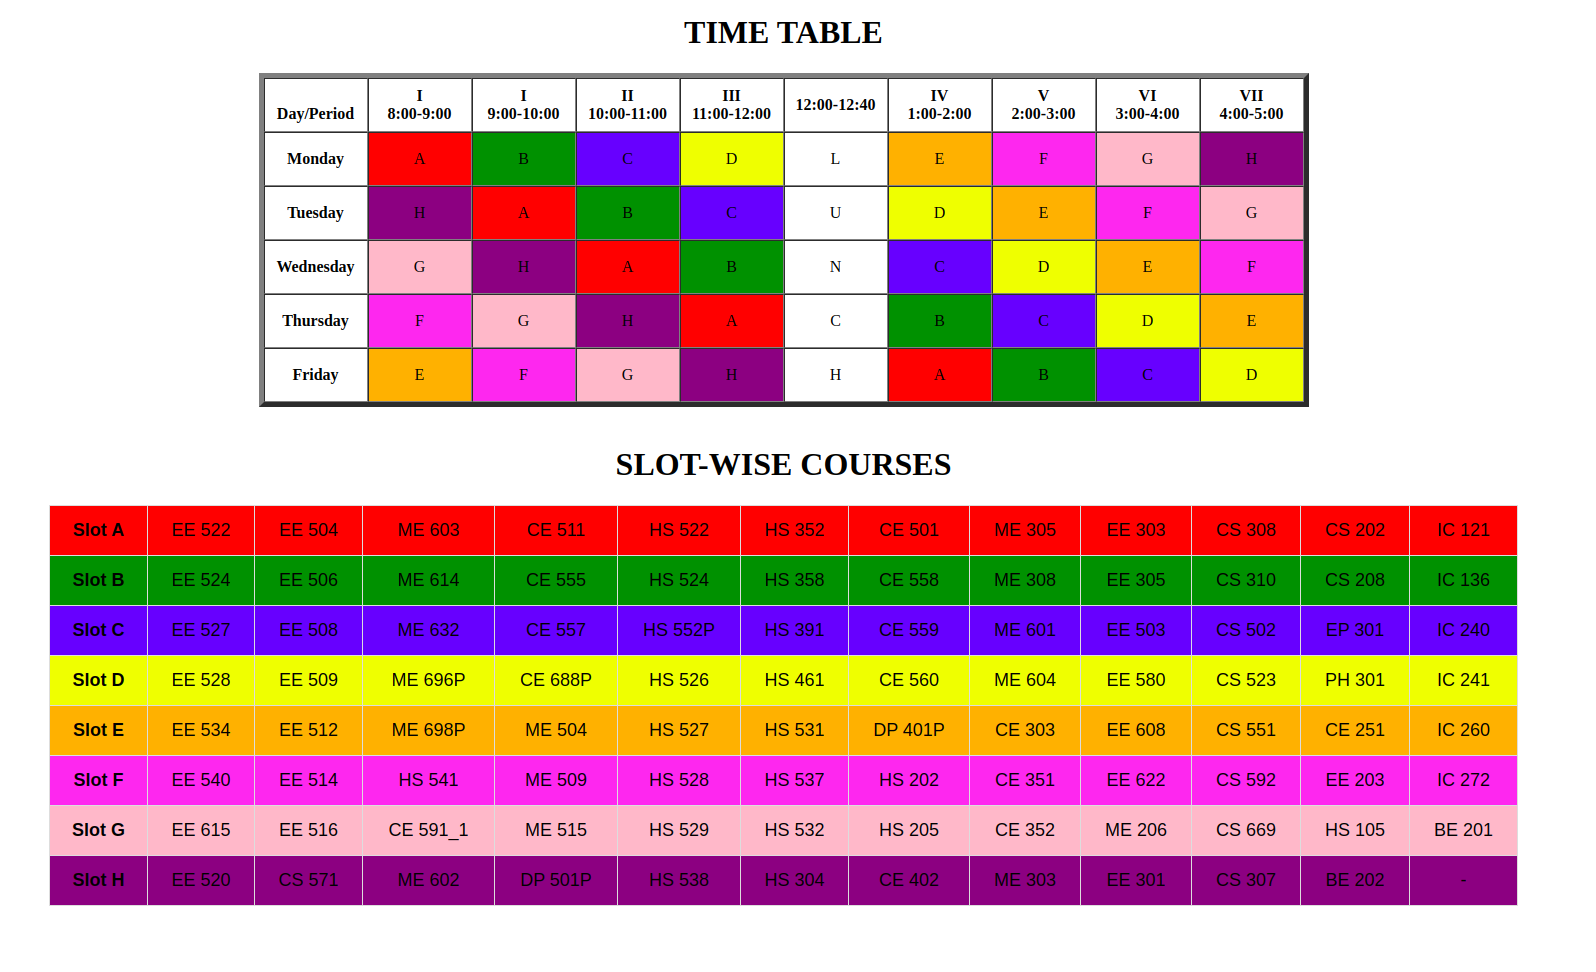
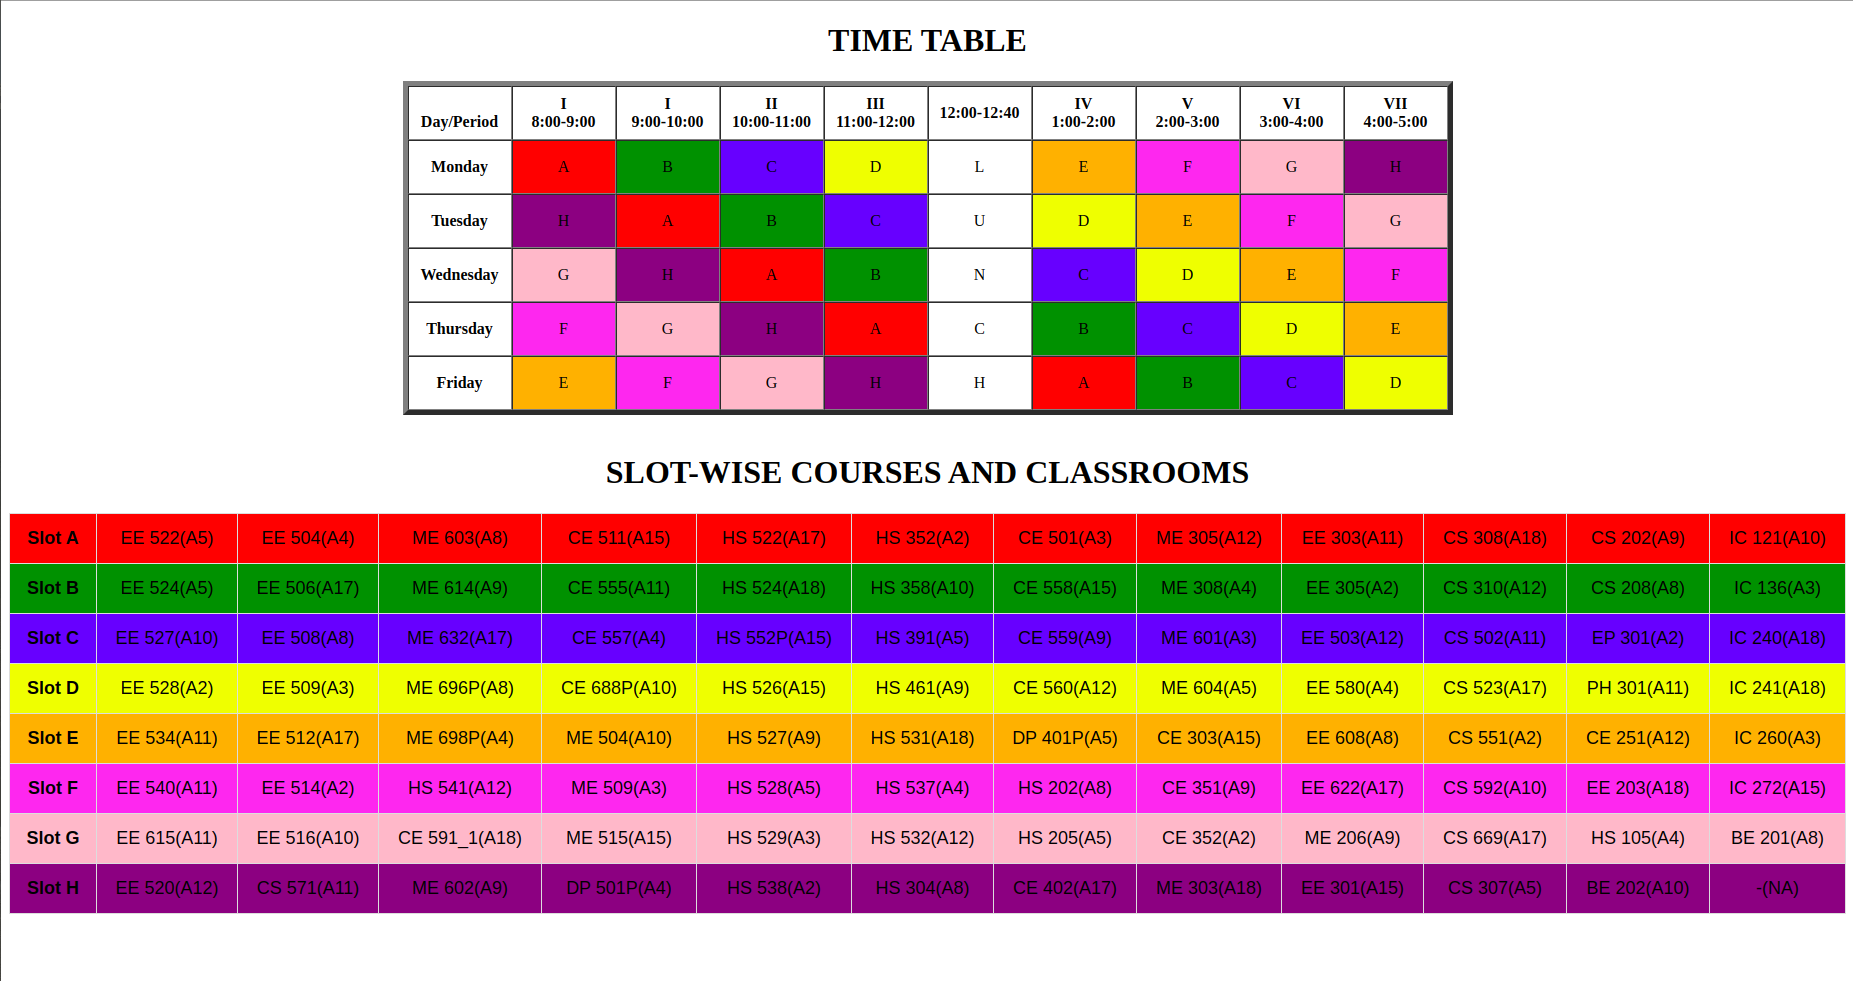
Updated func.py

Changed region(s): [[0.0, 0.463, 1.0, 0.9568], [0.1535, 0.0, 0.8289, 0.4321]]

diff --git a/slot_decider/templates/time-table.html b/slot_decider/templates/time-table.html
@@ -6,7 +6,7 @@
         #slots {
             font-family: Arial, Helvetica, sans-serif;
             border-collapse: collapse;
-            width: 80%;
+            width: 100%;
             font-size: large;
         }
 
@@ -86,14 +86,14 @@
         {% endfor %}
     </table>
     </br>
-    <h1 style="text-align: center;">SLOT-WISE COURSES</h1>
+    <h1 style="text-align: center;">SLOT-WISE COURSES AND CLASSROOMS</h1>
     <table id="slots" style="text-align: center;" class="center">
         {% for key, value in course_table.items %}
         <tr>
             <td bgcolor={{value.1}}><b>{{key}}</b></td>
             {% for x in value.0 %}
             <td bgcolor={{value.1}}>
-                {{x}}
+                {{x.0}}({{x.1}})
             </td>
             {% endfor %}
         </tr>

diff --git a/slot_decider/views.py b/slot_decider/views.py
@@ -16,14 +16,15 @@ def file_upload(request):
             file_list = []
             for x in files:
                 rd = x.read()
-                s=str(rd,'utf-8')
+                s = str(rd, 'utf-8')
                 data = StringIO(s)
-                df=pd.read_csv(data)
+                df = pd.read_csv(data)
                 print(df)
                 file_list.append(df)
 
             li = slot_allot(file_list[0], file_list[1], file_list[2])
-
+            dic = li[2]
+            # print(dic)
             slots = []  # This list will contain all the slot names that need to be passed to the templates
             colors = {0: 'red', 1: 'green', 2: 'blue', 3: 'yellow',
                       4: 'orange', 5: 'violet', 6: 'pink', 7: 'purple'}  # Color coding for slots
@@ -41,20 +42,30 @@ def file_upload(request):
                 slots.append(dd)
                 i += 1
                 hh += 1
-            print(slots)
+            # print(slots)
             courses_mat = li[1]
             courses = []
             i = 0
             max_course_slot = 0
+            new_course_mat = []
             for x in courses_mat:
-                max_course_slot = max(max_course_slot,len(x))
-            for x in courses_mat:
+                xx = []
+                for y in x:
+                    # print(dic[x])
+                    xx.append([y, dic[y]])
+                new_course_mat.append(xx)
+
+            # print(new_course_mat)
+            for x in new_course_mat:
+                max_course_slot = max(max_course_slot, len(x))
+
+            for x in new_course_mat:
                 rng = max_course_slot - len(x)
                 for y in range(rng):
-                    x.append("-")
+                    x.append(["-", "NA"])
                 courses.append([x, colors[i]])
                 i += 1
-
+            print(courses)
             # Each slot list passed for each day in a week
             course_table = {'Slot A': courses[0], 'Slot B': courses[1], 'Slot C': courses[2],
                             'Slot D': courses[3], 'Slot E': courses[4], 'Slot F': courses[5],
@@ -75,6 +86,7 @@ def file_upload(request):
 def time_table(request):
     print('worked!')
     return render(request, 'time-table.html')
+
 
 def home_page(request):
     return render(request, 'homepage.html')

diff --git a/slot_decider/func.py b/slot_decider/func.py
@@ -37,11 +37,11 @@ def recur(arr,ind,s_ind,p,n,sem_list,co_list,cse_list,ee_list,me_list,ce_list,co
     return 0
                     
 def slot_allot(f1,f2,f3):
-    import pandas as pd   
-    import numpy as np                      
+    import pandas as pd                     
     df=f2
     df1=f3
     course_fac=dict()
+    cou_stre=dict()
     fac_slot=dict()  #
     n=len(df)
     sem_list=list(df['Semester'])
@@ -53,6 +53,9 @@ def slot_allot(f1,f2,f3):
     for i,j in zip(df1['Course No.'],df1['Instructor']):
         course_fac[i]=j
         fac_slot[j]=[]
+    for i,j in zip(df1['Course No.'],df1['Strength']):
+        cou_stre[i]=j
+    
         
     slot_tmp=[[list() for i in range(4)] for j in range(8)]
     z=[[] for j in range(8)]
@@ -67,4 +70,19 @@ def slot_allot(f1,f2,f3):
         ind+=1
     for i in d: # printing time table
         print(i)
-    return [d,z]
+    df=f1
+    final_df = df.sort_values(by=['Capacity'], ascending=False)
+    final_df=list(final_df['Class'])
+    ditn=dict()
+    for i in z:
+        li=[]
+        for j in i:
+            li.append([cou_stre[j],j])
+        li.sort(reverse=True)
+        co=0
+        for j in li:
+            ditn[j[1]]=final_df[co]
+            co+=1
+            
+        
+    return [d,z,ditn]
